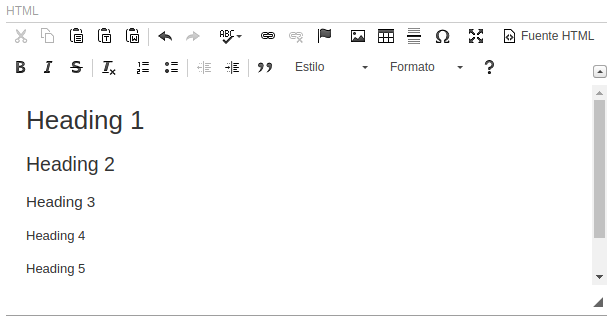
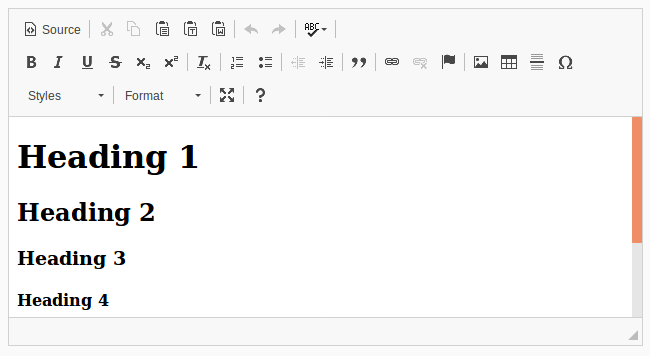
Update `o-html-input` component docs

diff --git a/_o_components/07-o-html-input.component.md b/_o_components/07-o-html-input.component.md
@@ -9,6 +9,18 @@ comp: HTMLInput
 
 The `o-html-input` component is used in [forms]({{ base_path }}/components/form/) for getting or displaying html text submitted by the user.
 
+This component wraps the [CKEditor 4](https://ckeditor.com/ckeditor-4/){:target="_blank"} component into an **OntimizeWeb** component. For using it you need to download the CKEditor library and include it in your application.
+
+1. Download the [CKEditor 4](https://ckeditor.com/ckeditor-4/download/){:target="_blank"}.
+2. Include it in your application:
+  * Copy the CKEditor library to your *assets* folder.
+  * Import the CKEditor library in the *index.html* file of your application.
+
+    ```html
+    <script type="text/javascript" src="./assets/js/ckeditor/ckeditor.js"></script>
+    ```
+3. Now you can include the `o-html-input` in your application templates.
+
 The HTML input is automatically registered on its parent `o-form`, which provides the value for the input programatically. Its value can be also set manually via the `data` parameter. This and other attributes are explained on the **API** section of this page.
 
 ## Basic example
@@ -16,7 +28,7 @@ The HTML input is automatically registered on its parent `o-form`, which provide
 
 ```html
 <o-form editable-detail="no" show-header="no">
-    <o-html-input attr="html" label="HTML" [data]="getHTMLData()"></o-html-input>
+    <o-html-input attr="html" [data]="getHTMLData()" read-only="no" required="yes"></o-html-input>
 </o-form>
 ```
 You can see this and more examples of this component in the [OntimizeWeb playground](https://try.imatia.com/ontimizeweb/playground/main/inputs/html){:target="_blank"}.
